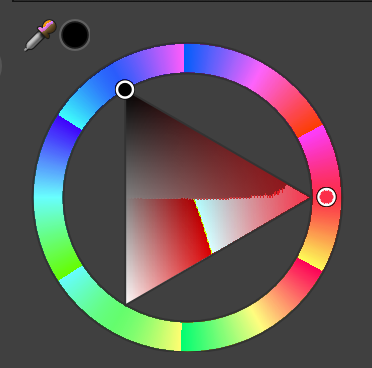
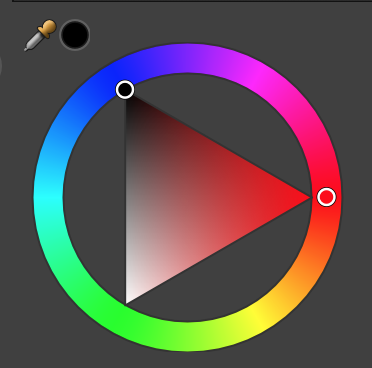
Implement correct color mapping

Changed region(s): [[0.0887, 0.1196, 0.9167, 0.9565], [0.0887, 0.0598, 0.1478, 0.1196]]

diff --git a/color/mapper.go b/color/mapper.go
@@ -1,7 +1,5 @@
 package color
 
-import "fmt"
-
 var (
 	whitePoint = Point{
 		X: 0,
@@ -11,14 +9,20 @@ var (
 		X: 0,
 		Y: 0,
 	}
-	whiteHueLine = Line{
-		Slope: -0.268,
-		Yi:    1,
+	huePoint = Point{
+		X: heightTriangle(1, areaEquilateralTriangle(1)),
+		Y: 0.5,
 	}
-	blackHueLine = Line{
-		Slope: 1.732,
-		Yi:    0,
-	}
+	//whiteHueLine = Line{
+	//	Slope: -0.268,
+	//	Yi:    1,
+	//}
+	//blackHueLine = Line{
+	//	Slope: 1.732,
+	//	Yi:    0,
+	//}
+	whiteHueLine = calculateLine(whitePoint, huePoint)
+	blackHueLine = calculateLine(blackPoint, huePoint)
 )
 
 func MapToWold(cw *ColorWheel, blk RGB, wht RGB, source RGB) RGB {
@@ -28,16 +32,16 @@ func MapToWold(cw *ColorWheel, blk RGB, wht RGB, source RGB) RGB {
 
 	lum := PartialBlendHSL(blk.ToHSL(), wht.ToHSL(), src.L, HueDistanceCW).ToRGB()
 	sat := PartialBlendRGB(lum, pureHue, src.S)
-
-	fmt.Println(src.FormalString())
-	fmt.Print("source  : ")
-	fmt.Println(source)
-	fmt.Print("pure hue: ")
-	fmt.Println(pureHue)
-	fmt.Print("sat     : ")
-	fmt.Println(sat)
-	fmt.Print("lum     : ")
-	fmt.Println(lum)
+	//
+	//fmt.Println(src.FormalString())
+	//fmt.Print("source  : ")
+	//fmt.Println(source)
+	//fmt.Print("pure hue: ")
+	//fmt.Println(pureHue)
+	//fmt.Print("sat     : ")
+	//fmt.Println(sat)
+	//fmt.Print("lum     : ")
+	//fmt.Println(lum)
 
 	var result RGB
 
@@ -52,16 +56,16 @@ func MapToWold(cw *ColorWheel, blk RGB, wht RGB, source RGB) RGB {
 		inter := intersect(lumLine, whiteHueLine)
 		dist := calcDistance(inter, whitePoint)
 		mixer := PartialBlendRGB(wht, pureHue, dist)
-		fmt.Print("mixer   : ")
-		fmt.Println(mixer)
+		//fmt.Print("mixer   : ")
+		//fmt.Println(mixer)
 		result = PartialBlendRGB(lum, mixer, src.S)
 
 	} else {
-		inter := intersect(lumLine, blackHueLine)
-		dist := calcDistance(inter, blackPoint)
+		inter := intersect(blackHueLine, lumLine)
+		dist := calcDistance(blackPoint, inter)
 		mixer := PartialBlendRGB(blk, pureHue, dist)
-		fmt.Print("mixer   : ")
-		fmt.Println(mixer)
+		//fmt.Print("mixer   : ")
+		//fmt.Println(mixer)
 		result = PartialBlendRGB(lum, mixer, src.S)
 	}
 

diff --git a/cmd/mapper/main.go b/cmd/mapper/main.go
@@ -15,14 +15,14 @@ func main() {
 	wht := color.MustParseHex("#ffffff").ToRGB()
 
 	rgb := []color.RGB{
-		color.MustParseHex("#ff0000").ToRGB(),
-		color.MustParseHex("#000000").ToRGB(),
-		color.MustParseHex("#ffffff").ToRGB(),
+		//color.MustParseHex("#ff0000").ToRGB(),
+		//color.MustParseHex("#000000").ToRGB(),
+		//color.MustParseHex("#ffffff").ToRGB(),
 		color.MustParseHex("#503030").ToRGB(),
-		color.MustParseHex("#602020").ToRGB(),
-		color.MustParseHex("#bf4040").ToRGB(),
-		color.MustParseHex("#bf4040").ToRGB(),
-		color.MustParseHex("#bfff40").ToRGB(),
+		//color.MustParseHex("#602020").ToRGB(),
+		//color.MustParseHex("#bf4040").ToRGB(),
+		//color.MustParseHex("#bf4040").ToRGB(),
+		//color.MustParseHex("#bfff40").ToRGB(),
 	}
 
 	for i := range rgb {

diff --git a/color/math.go b/color/math.go
@@ -37,3 +37,11 @@ type Point struct {
 type Line struct {
 	Slope, Yi float64
 }
+
+func areaEquilateralTriangle(side float64) float64 {
+	return (math.Sqrt(3) / 4) * math.Pow(side, 2)
+}
+
+func heightTriangle(base float64, area float64) float64 {
+	return 2 * (area / base)
+}
